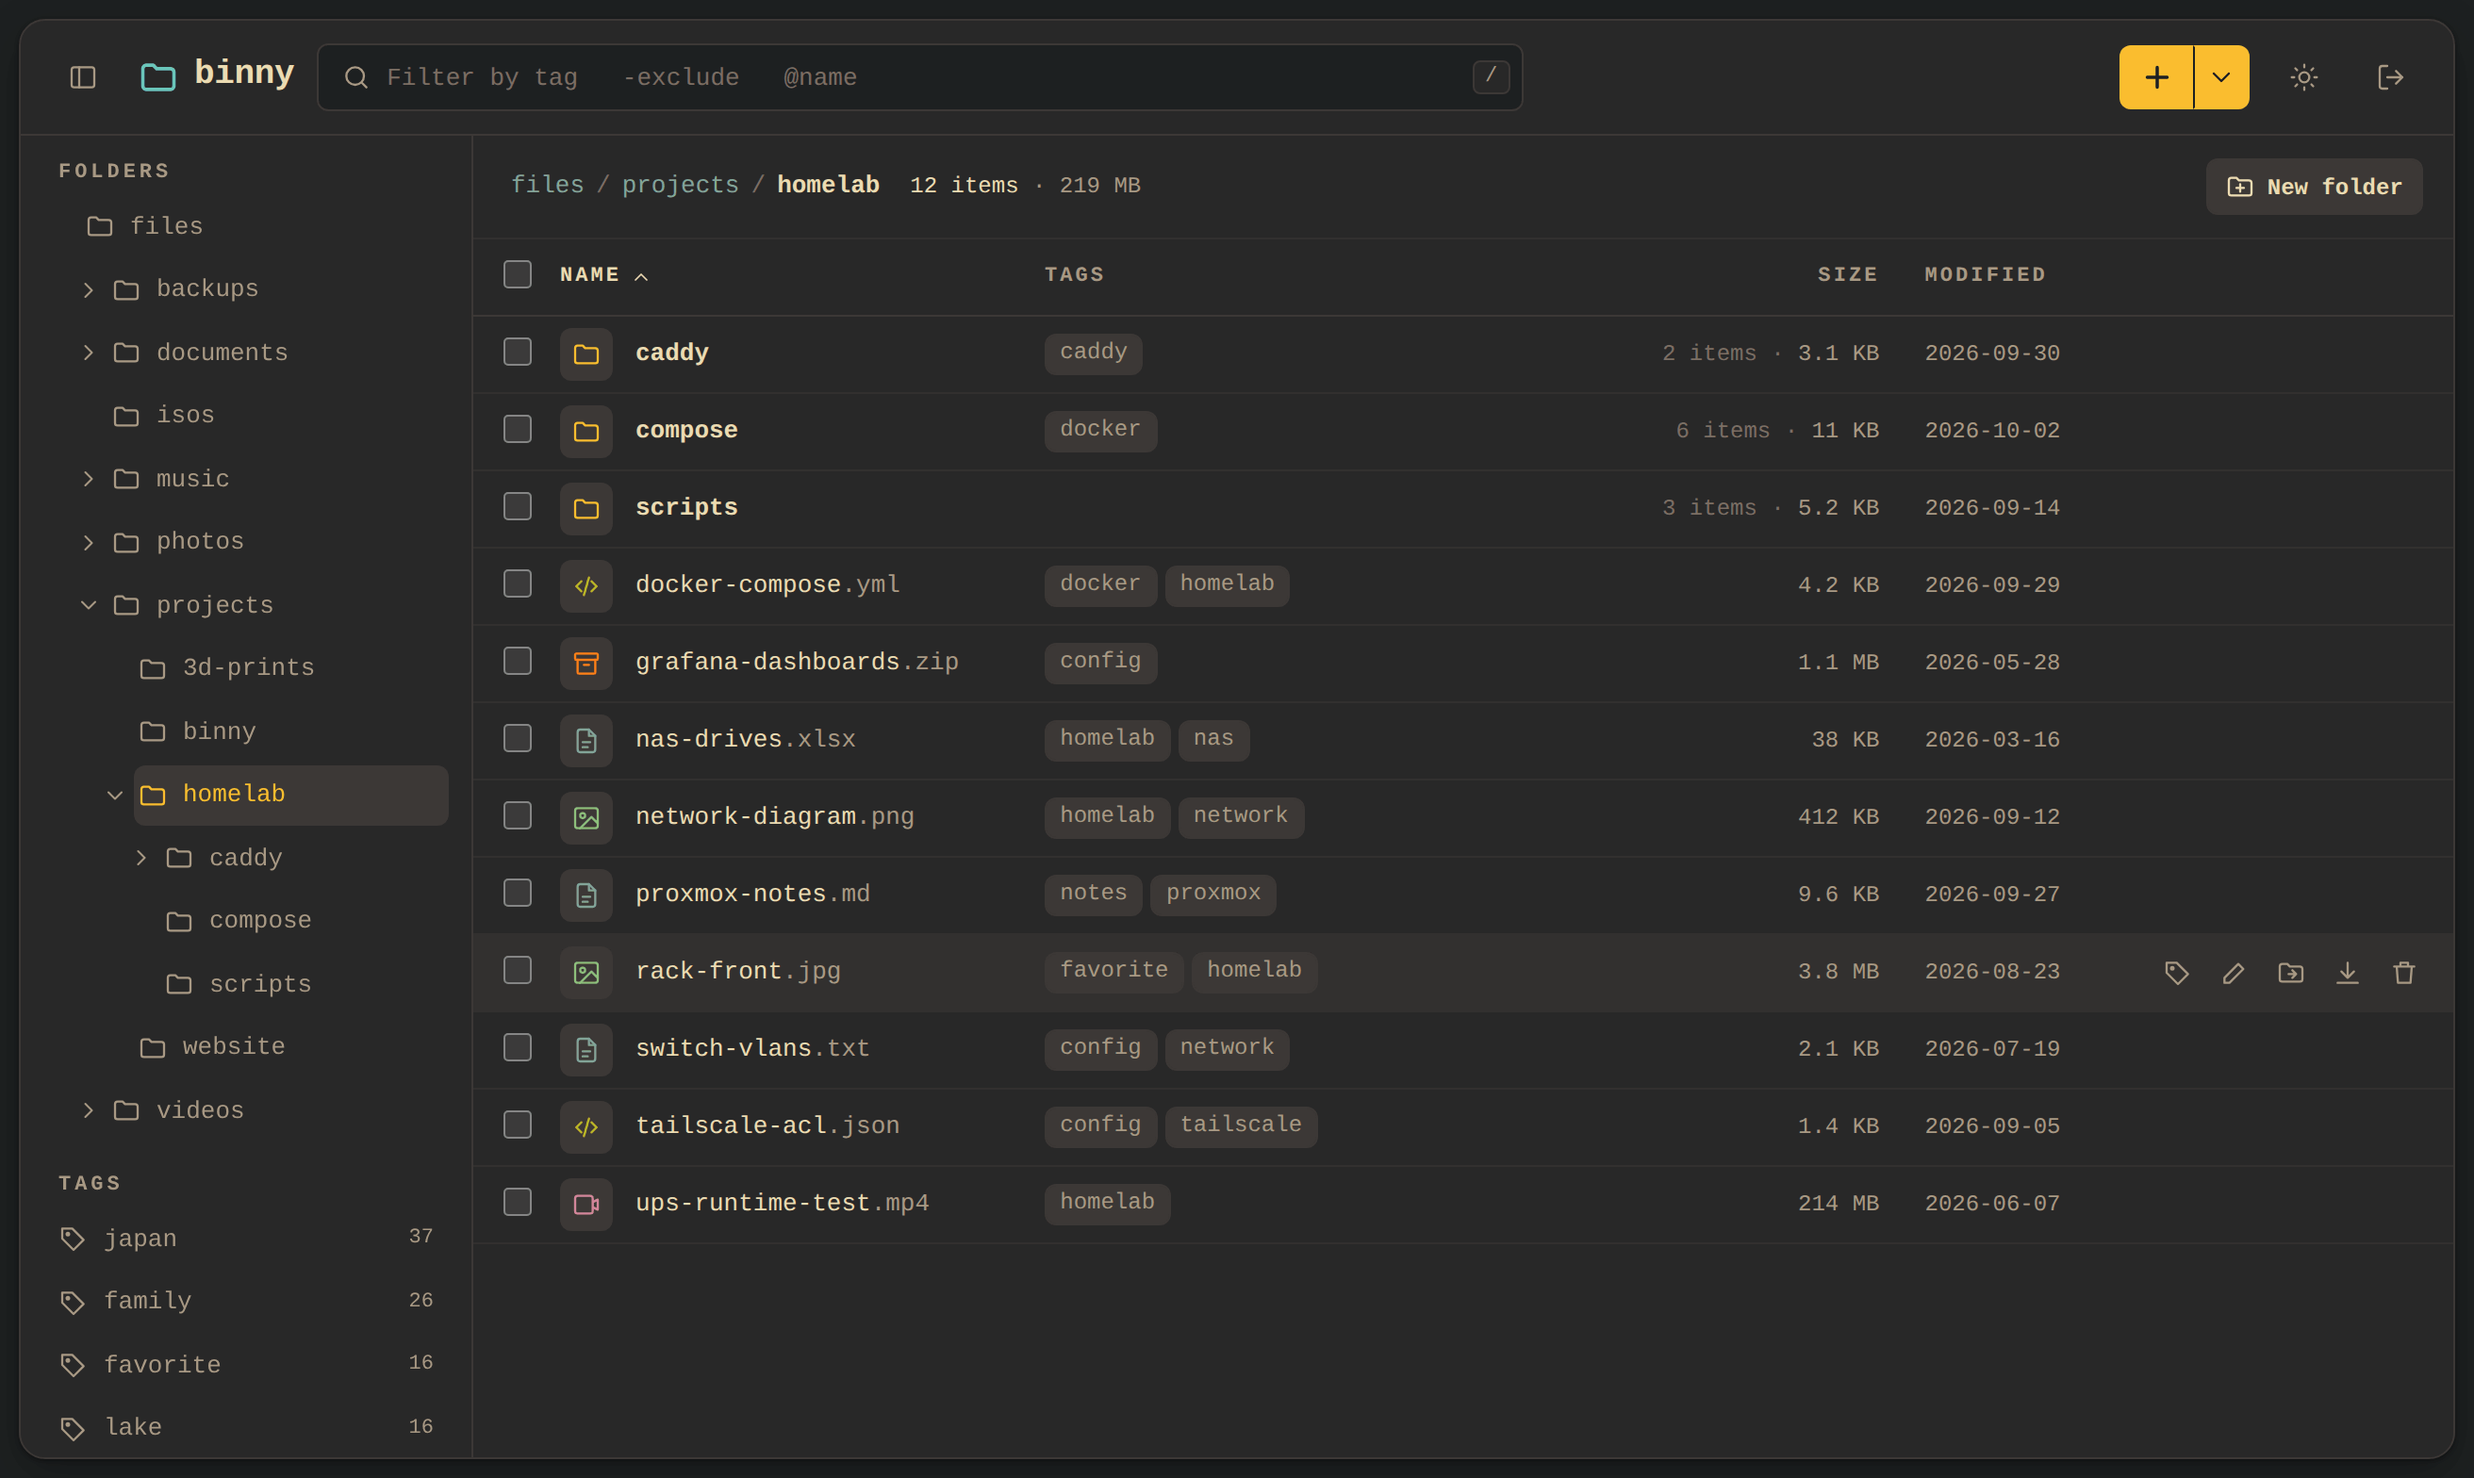
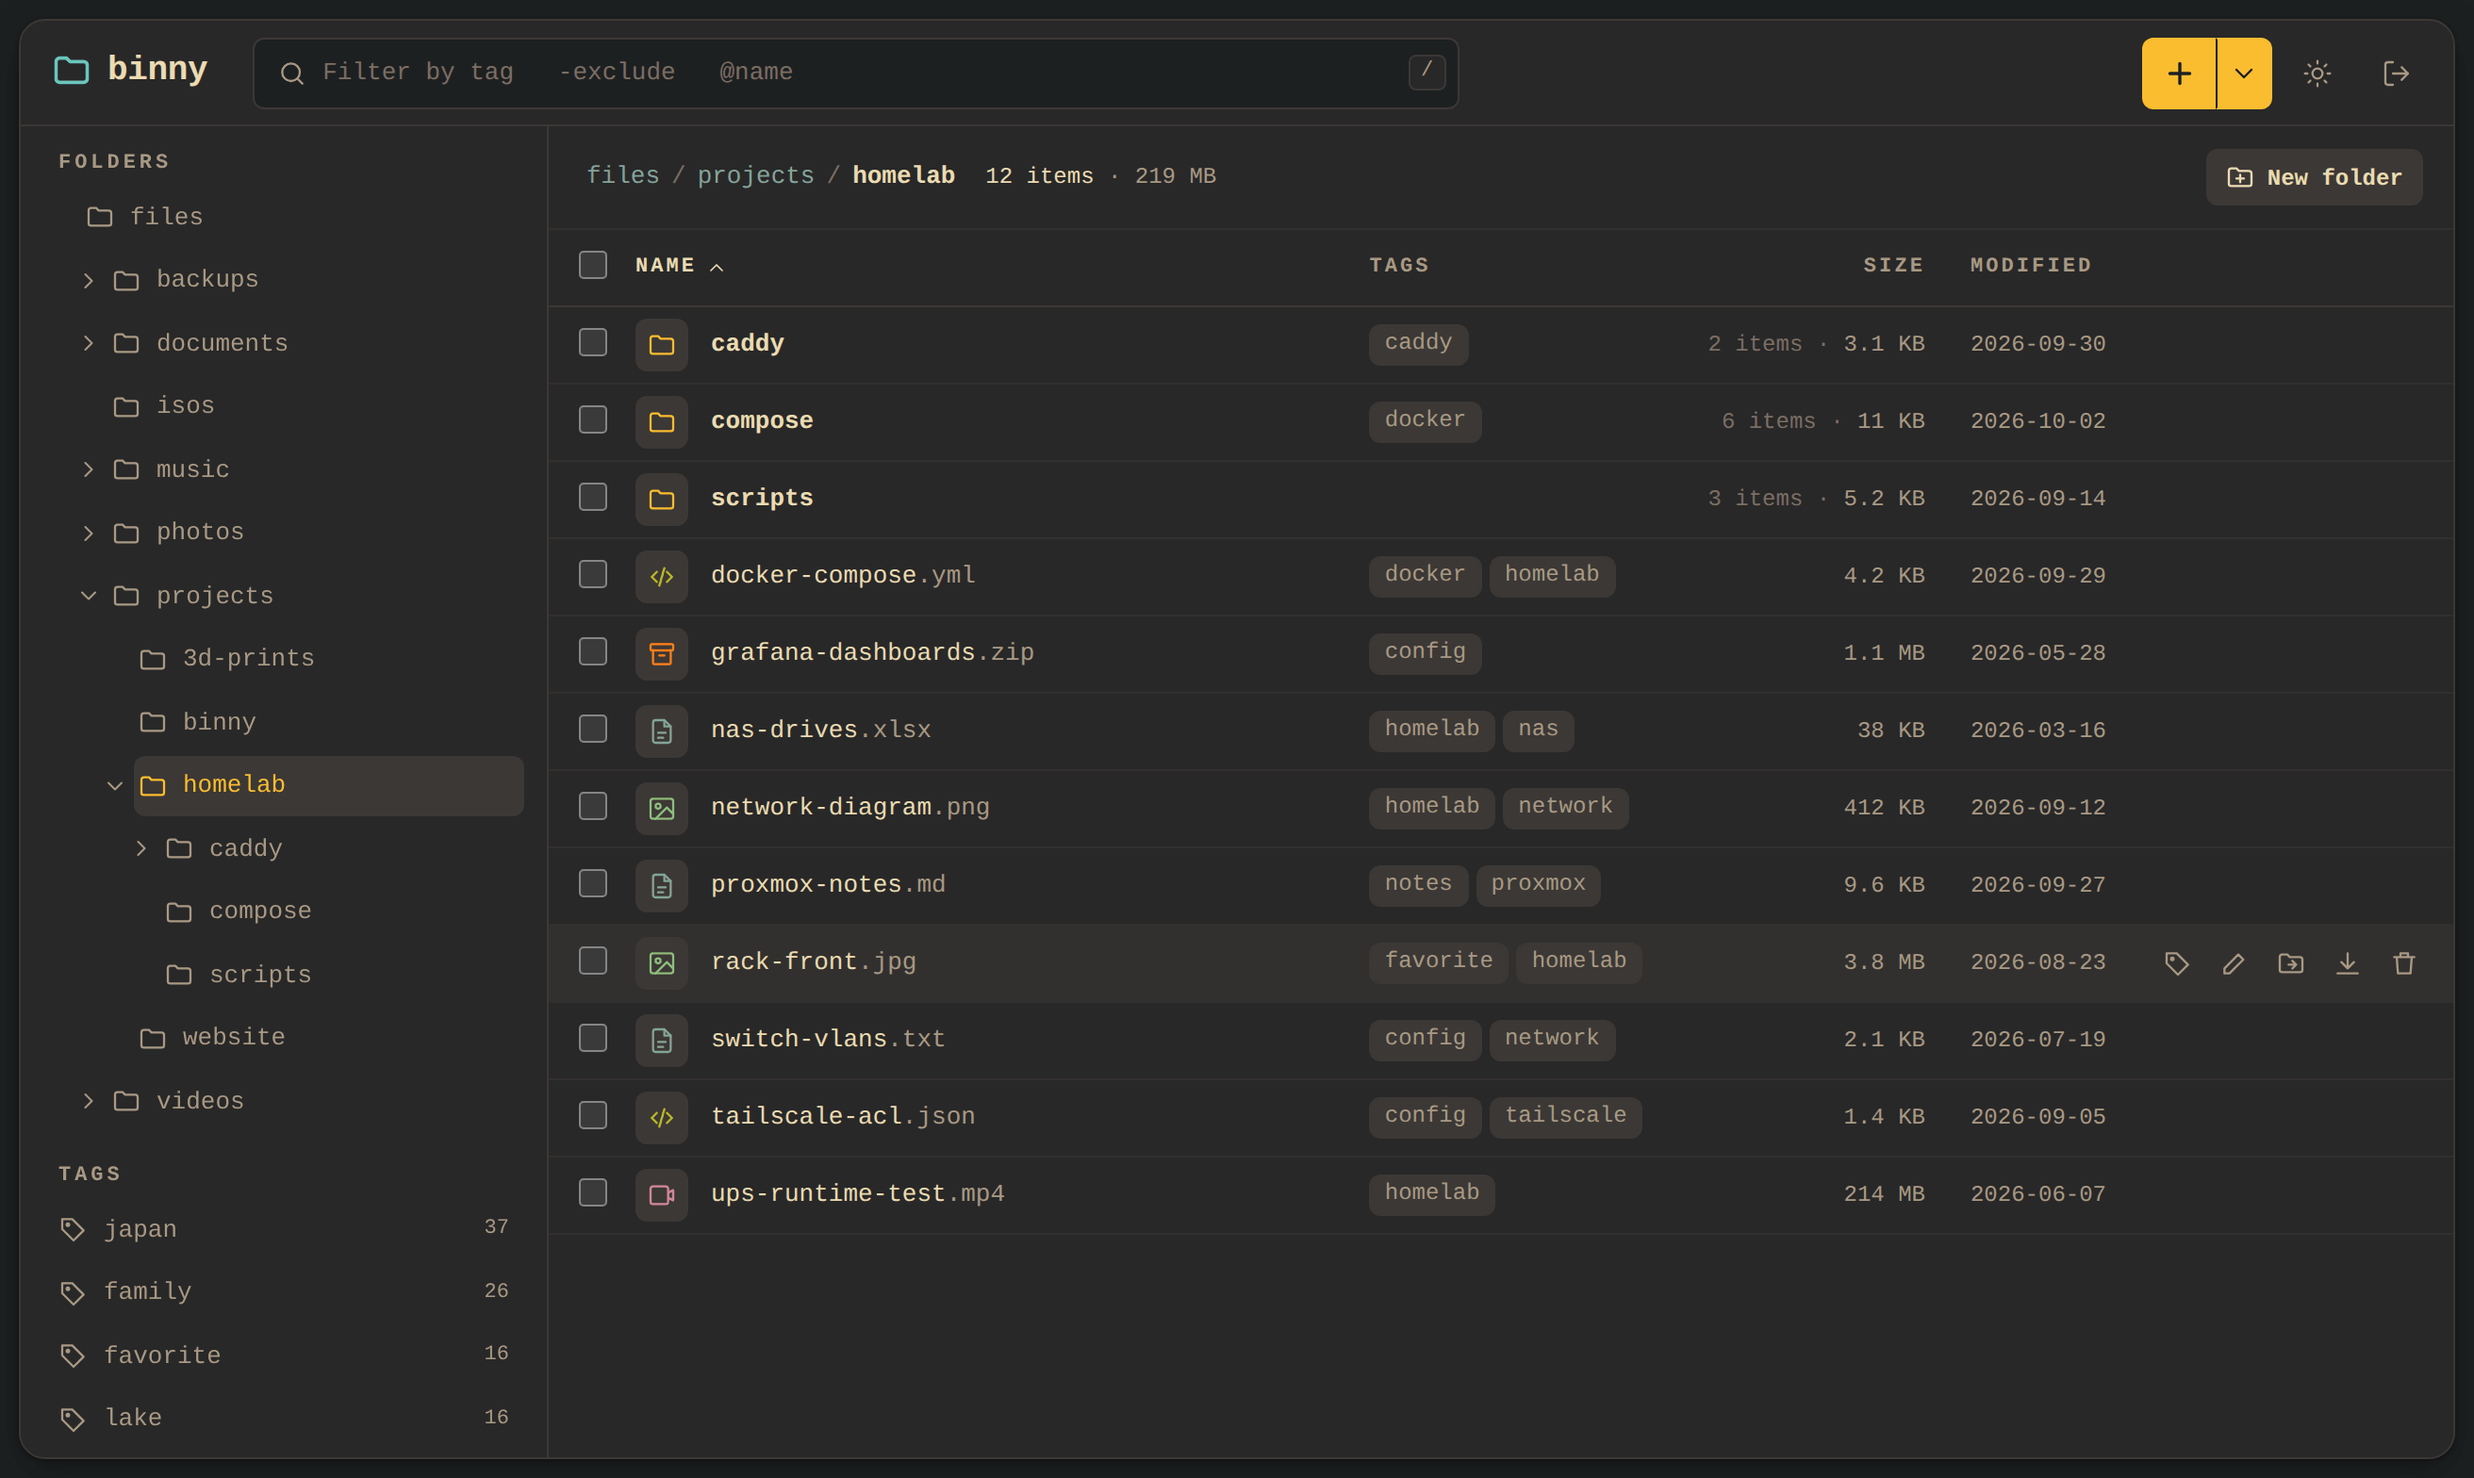
Show the disk's free space beside the used space in the sidebar
The storage line said how much of the disk was used but not how much was left.
It now reads "1.6 TB of 4.0 TB used | 2.4 TB free", from the free bytes of the
disk holding data/files. That is longer than the 240px sidebar could hold on a
line, so the sidebar is 280px wide, and the free part wraps as a unit if a
longer figure still doesn't fit. The desktop README screenshots are retaken for
the wider sidebar.

Claude-Session: https://claude.ai/code/session_01Qe7URwaArr4JHzL1Xy3gCh

diff --git a/binny/static/css/style.css b/binny/static/css/style.css
@@ -178,7 +178,7 @@ svg.i { width: 16px; height: 16px; fill: none; stroke: currentColor; stroke-widt
 mark { background: none; color: var(--accent-text); font-weight: 700; }
 
 /* ---------- sidebar: folder tree and disk usage ---------- */
-.side { width: 240px; overflow-y: auto; gap: var(--app-space-5); }
+.side { width: 280px; overflow-y: auto; gap: var(--app-space-5); }
 .side .cc-eyebrow { color: var(--fg-muted); border: 0; padding: 0 var(--app-space-3); margin: 0 0 var(--app-space-1); }
 .nav { display: flex; flex-direction: column; gap: 2px; }
 .nav .cc-shell__row { display: flex; align-items: center; gap: var(--app-space-3); min-width: 0; text-decoration: none; transition: background 120ms ease, color 120ms ease; }
@@ -195,6 +195,8 @@ button.twisty:hover { background: var(--border); color: var(--fg); }
 .twisty[aria-expanded="true"] .i { transform: rotate(90deg); }
 .storage { padding: 0 var(--app-space-3); font-family: var(--font-mono); font-size: 11px; color: var(--fg-muted); }
 .storage b { color: var(--fg); font-weight: 400; }
+.storage .sep { color: var(--fg-subtle); }
+.storage .free { white-space: nowrap; }
 .meter { height: 6px; margin: 6px 0 4px; border-radius: 3px; background: var(--bg-inset); overflow: hidden; }
 .meter i { display: block; height: 100%; background: var(--accent-alt); }
 .meter--full i { background: var(--accent-warm); }

diff --git a/binny/static/js/sidebar.js b/binny/static/js/sidebar.js
@@ -40,10 +40,10 @@ export async function loadTree() {
     if (isTrash()) $('trashNav').setAttribute('aria-current', 'page');
     else $('trashNav').removeAttribute('aria-current');
 
-    const { used, total } = data.disk;
+    const { used, total, free } = data.disk;
     const percent = total ? Math.round((used / total) * 100) : 0;
     $('storage').innerHTML = `
-        <div>${formatSize(used)} of ${formatSize(total)} used</div>
+        <div>${formatSize(used)} of ${formatSize(total)} used <span class="sep">|</span> <span class="free"><b>${formatSize(free)}</b> free</span></div>
         <div class="meter${percent >= 90 ? ' meter--full' : ''}"><i style="width: ${percent}%"></i></div>
         <div>binny holds <b>${formatSize(data.files_size)}</b></div>`;
 }

diff --git a/binny/api/folders.py b/binny/api/folders.py
@@ -33,7 +33,7 @@ def folder_tree():
                             for row in conn.execute(SUBFOLDERS, (folder,))]
         files_size = index.folder_totals(conn, '')[1]
     disk = shutil.disk_usage(config.FILES_DIR)
-    return {'tree': tree, 'files_size': files_size, 'disk': {'total': disk.total, 'used': disk.used},
+    return {'tree': tree, 'files_size': files_size, 'disk': {'total': disk.total, 'used': disk.used, 'free': disk.free},
             'trash_items': len(trash_entries())}
 
 

diff --git a/tests/test_folders.py b/tests/test_folders.py
@@ -33,7 +33,9 @@ def test_tree_lists_the_subfolders_of_open_folders(client):
     ]
     assert tree['a'] == [{'path': 'a/b', 'name': 'b', 'has_children': True}]
     assert response.json['files_size'] == 7
-    assert response.json['disk']['total'] >= response.json['disk']['used'] > 0
+    disk = response.json['disk']
+    assert disk['total'] >= disk['used'] > 0
+    assert 0 < disk['free'] <= disk['total']
 
 
 def test_all_folders_lists_every_folder(client, files):
